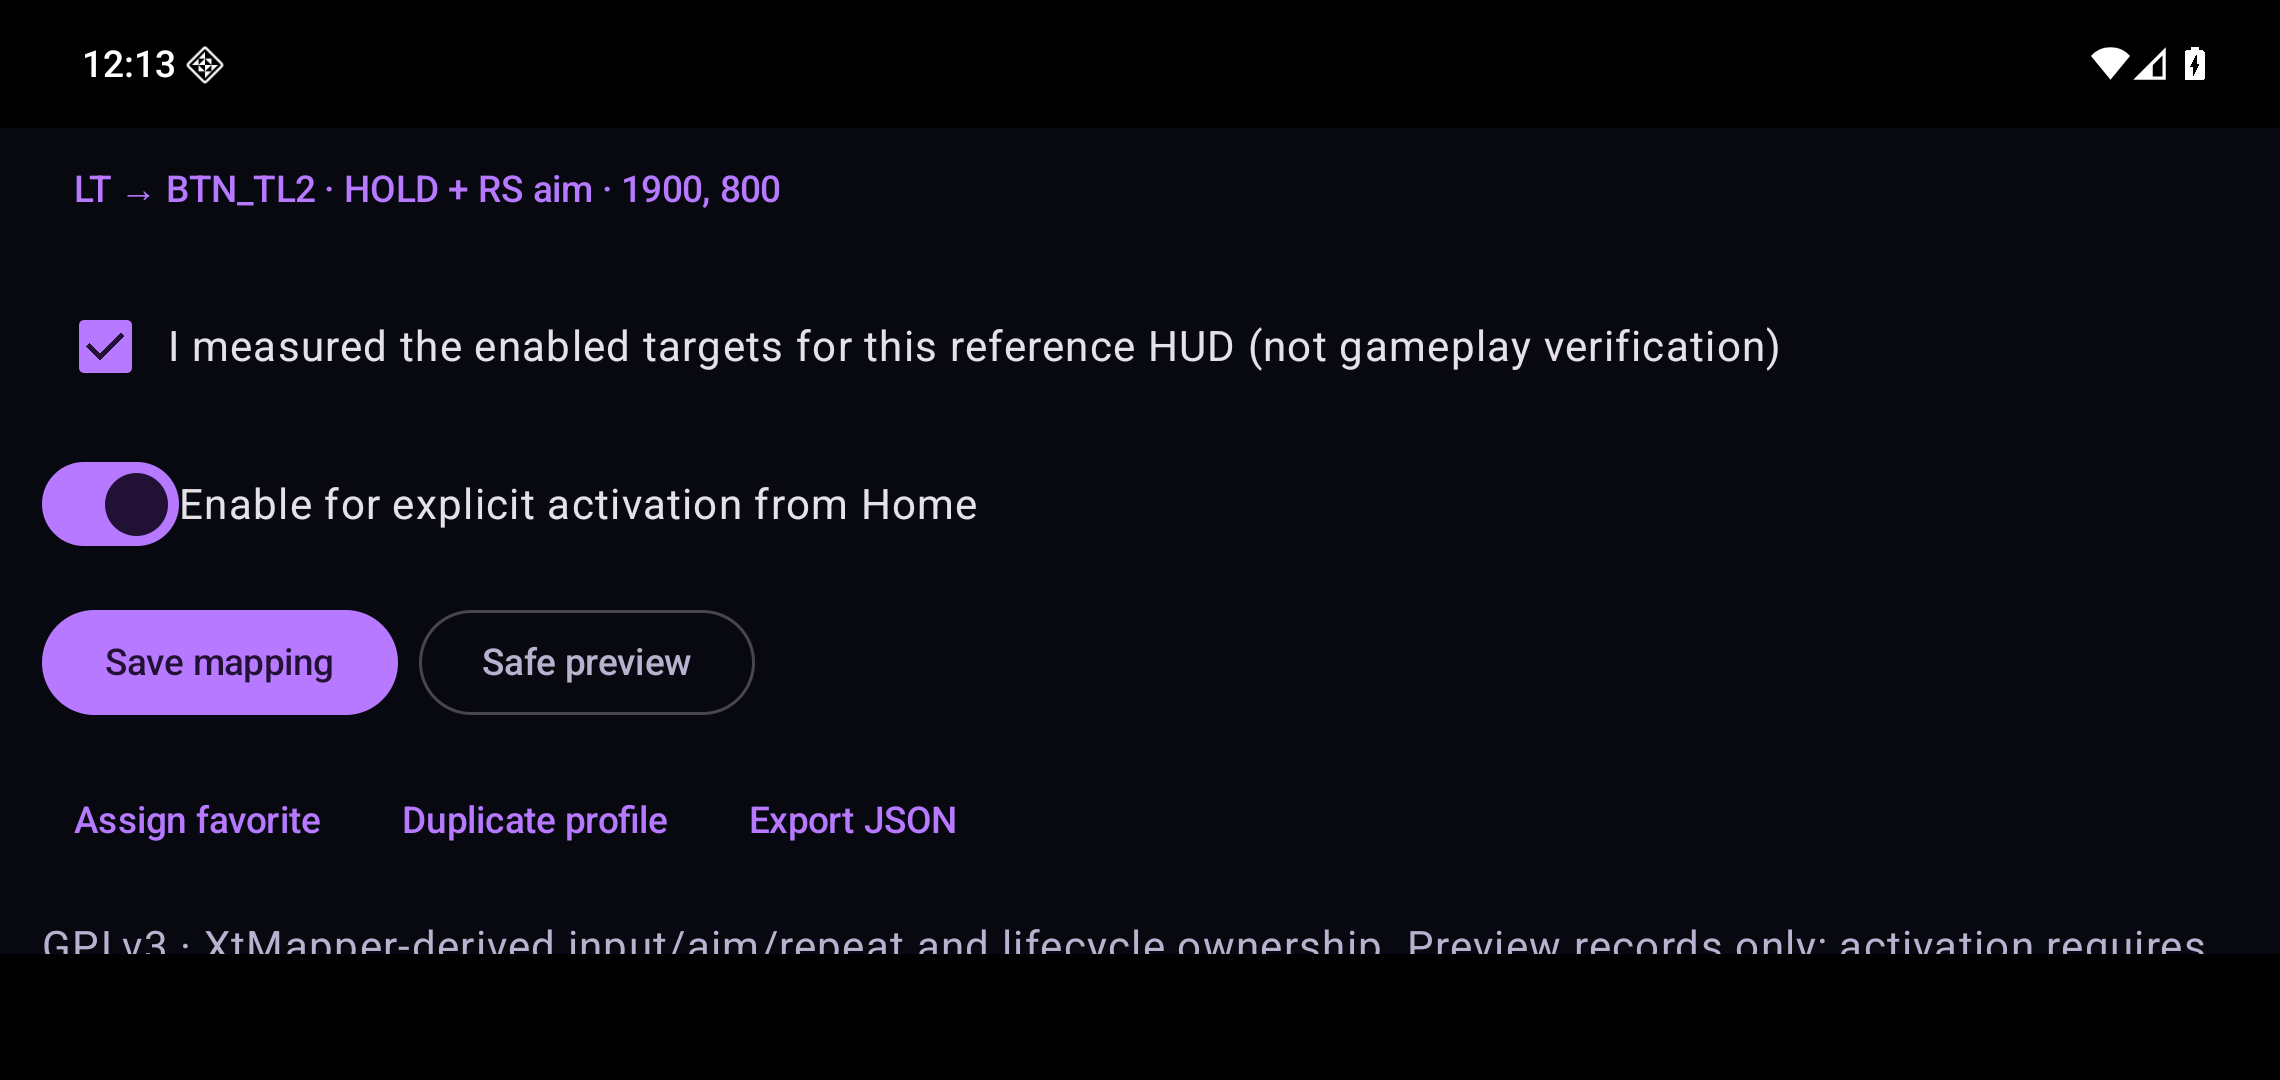
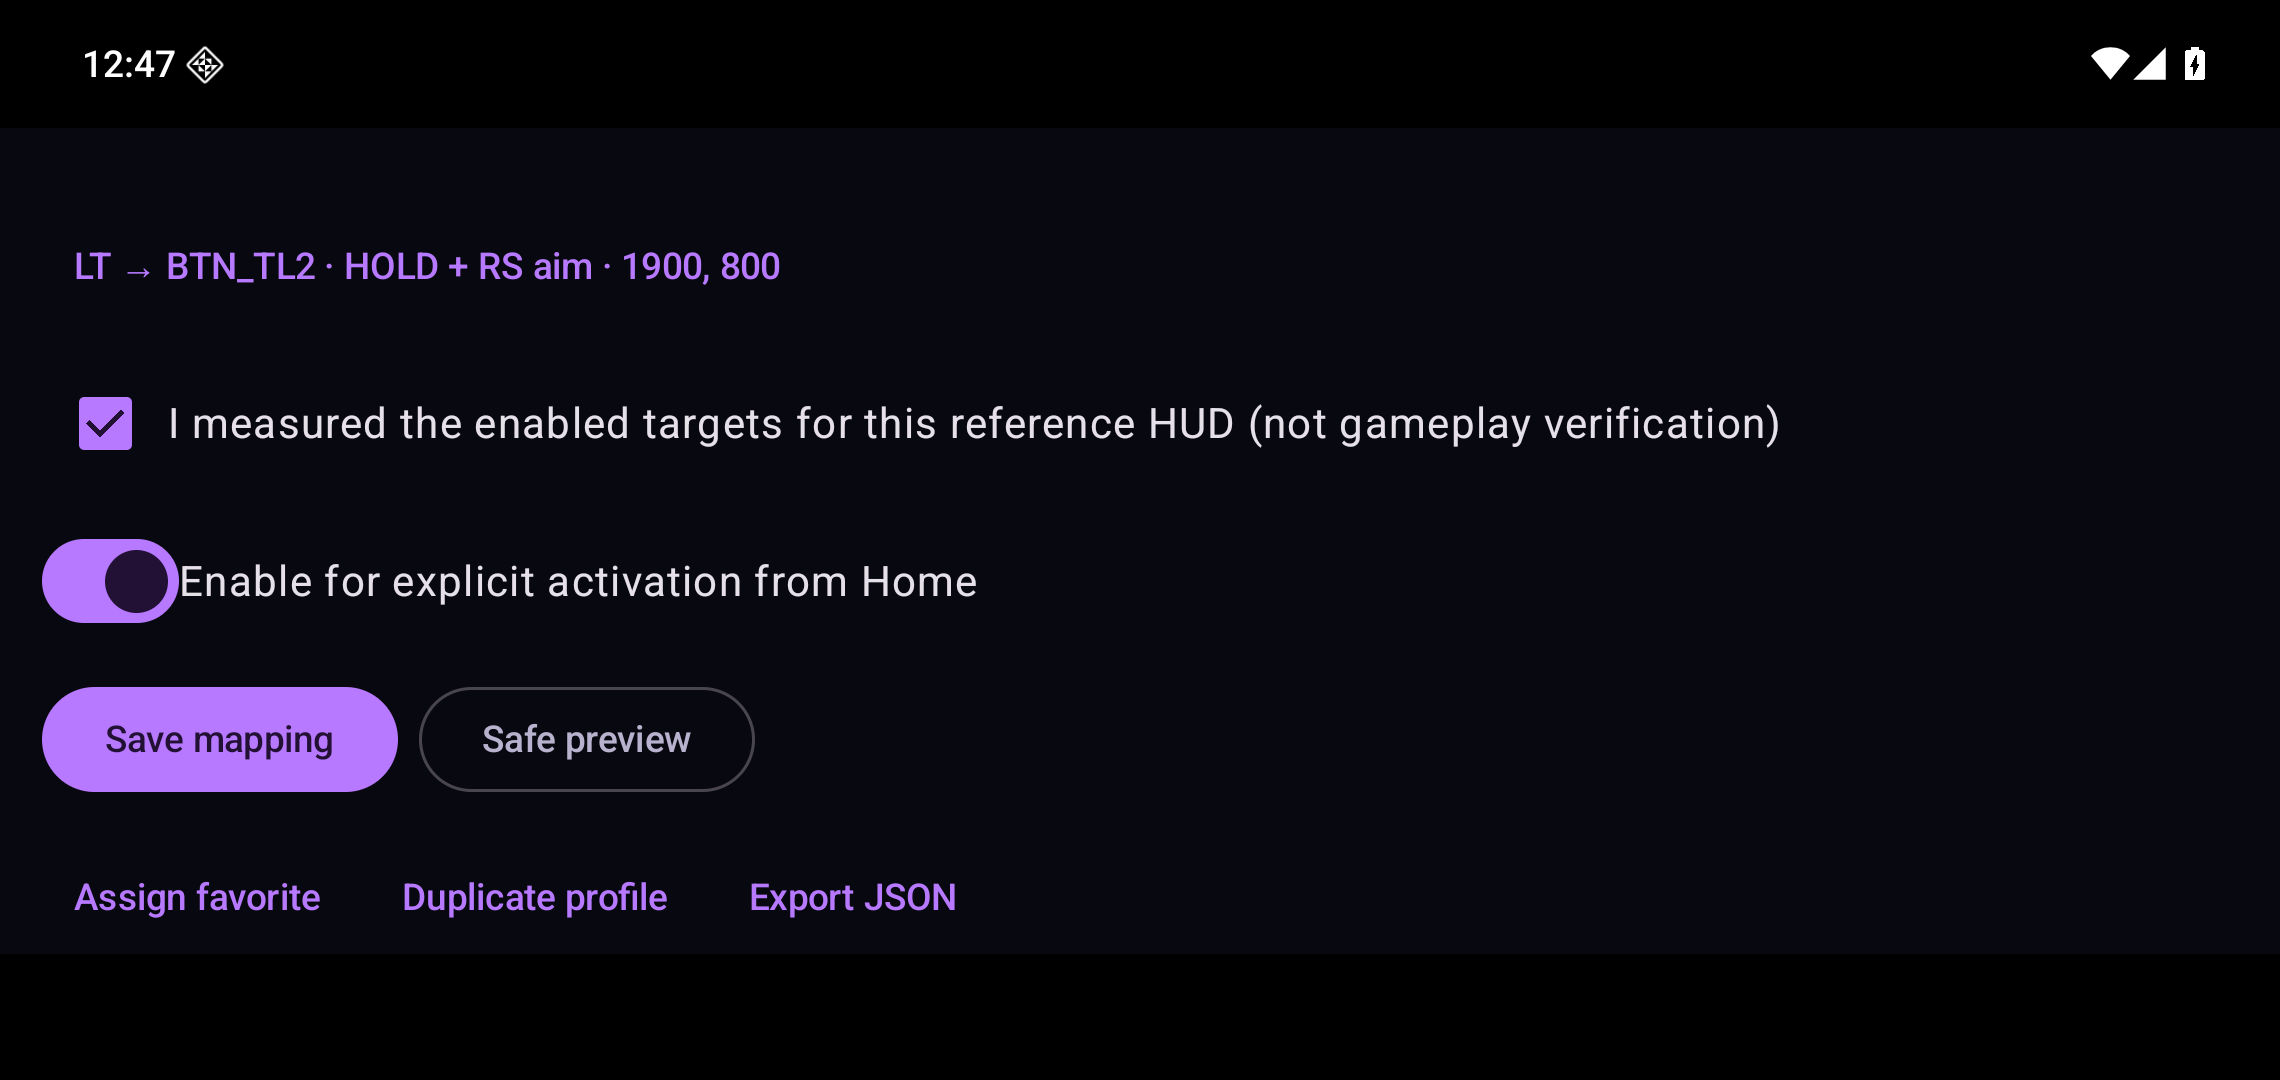
docs(editor): capture guarded loading and retained-field validation checkpoint

diff --git a/docs/validation/universal-editor/REPORT.md b/docs/validation/universal-editor/REPORT.md
@@ -4,8 +4,8 @@ Development branch: `feature/15-universal-mapping-editor`, directly based on
 consolidated `dev` 54b18e1. This is an incremental draft, not release acceptance.
 Physical S10e/G8/MLBB were not used or modified. Issue #20 remains deferred.
 
-Latest production-code checkpoint: **8122510**; debug picker synchronization
-follow-up **b23c963**, additive lifecycle fixture **197c5e1**. **348 Android tests passed**. Actual blank/create/save/reopen, CRUD,
+Latest production/UI checkpoint: **3f249ff**, including guarded malformed-profile
+routing and retained-field synchronization; additive lifecycle fixture **197c5e1**. **348 Android tests passed**. Actual blank/create/save/reopen, CRUD,
 DocumentsUI import/export and eight simulated scenarios passed (seven historical,
 one universal lifecycle), with zero final pointers. See the final sections below
 for current evidence; earlier sections retain their original checkpoint counts.
@@ -283,3 +283,29 @@ Fresh current-head CI is required; consult PR25's checks rather than inferring g
 from an earlier host run. Run `ux universal` and `ux universal-crud` with this bounded helper as separate
 required checks. The committed screenshots/core trace are from the same production
 UI/runtime at 8122510; APK identity includes the b23c963 debug harness follow-up.
+
+### Saved-profile safety and retained-input follow-up: 3f249ff
+
+Source review identified an unguarded parse in Home's Edit callback: a malformed
+saved universal envelope could throw before reaching the editor. Home now uses the
+format marker only for routing; the existing guarded editor loader performs full
+validation and shows an error. The new AVD CRUD regression opens a disposable
+schema99 profile through Home, verifies the error/Activity remain usable, verifies
+its invalid bytes are preserved, then deletes only that test profile with the normal
+confirmation flow. This test passed. Debug build/lint, release compilation and all
+**348 unit tests** passed again with the production routing correction.
+
+The subsequent hosted run
+[42019907179](https://github.com/rickallauigan/mythicmapper/actions/runs/42019907179)
+failed on a retained numeric-field assertion after a recovered SystemUI startup ANR.
+Its captured accessibility tree contained the numeric field value, but the helper
+only checked the value when ACTION_SET_TEXT acknowledged success. The helper now
+independently verifies the retained value before/after the action, waits for the
+selected binding before typing, and reports expected/actual values and the action
+acknowledgement on failure. Exact-value requirements are retained. This is not a
+claim that the failed run passed; current-head hosted validation is still required.
+
+The complete core editor suite passed locally again on 3f249ff, including exact
+field values, marker drag/single undo, save/reopen, both orientations, favorite
+ownership and shared-runtime replay (19 touch events, max two pointers, final zero).
+The current screenshots and APK hash have been refreshed to this checkpoint.
